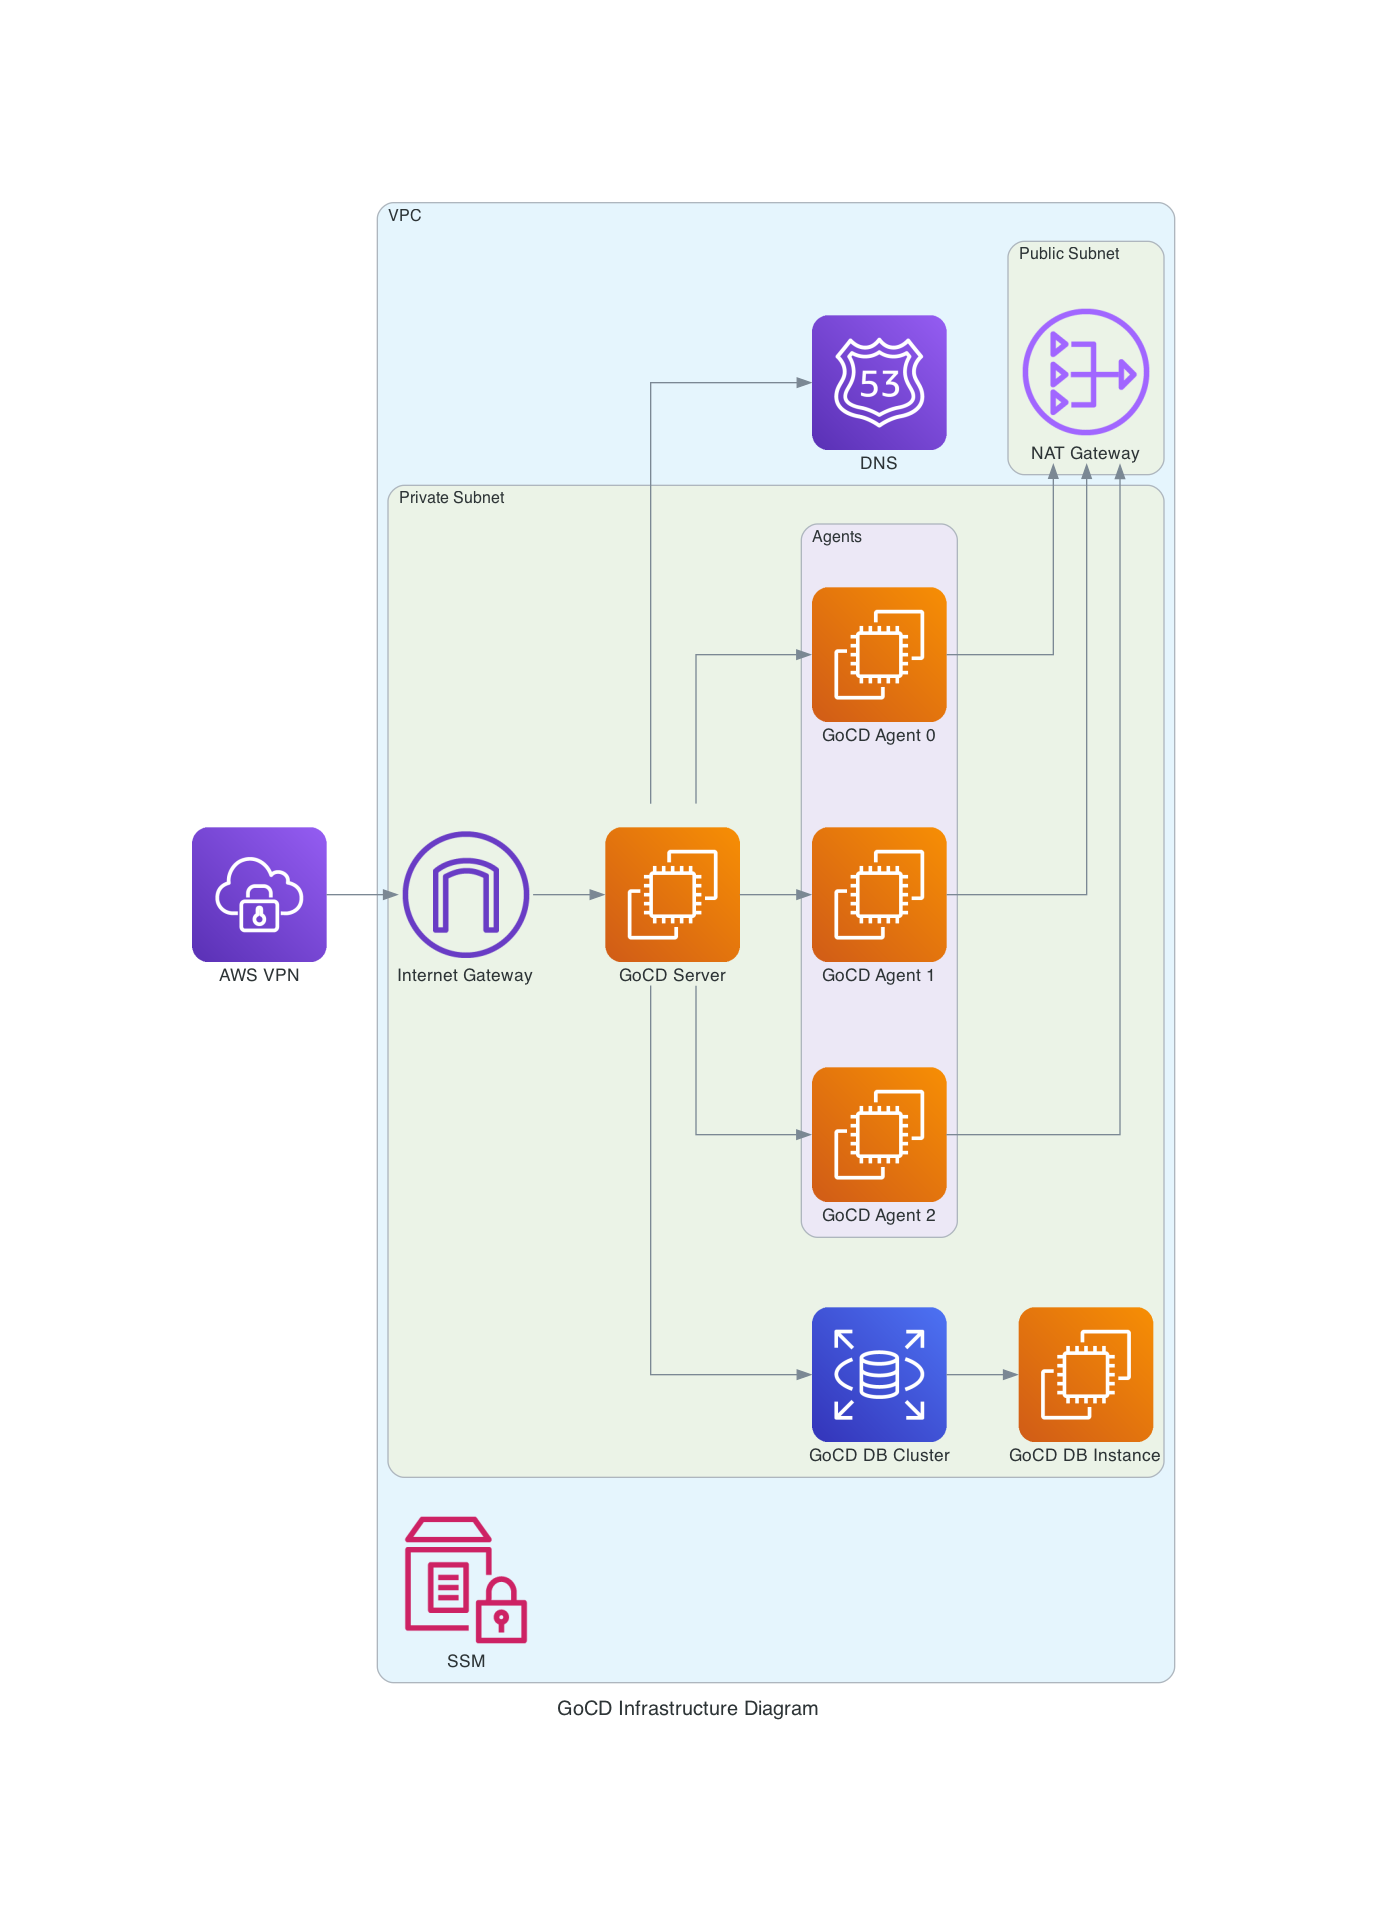
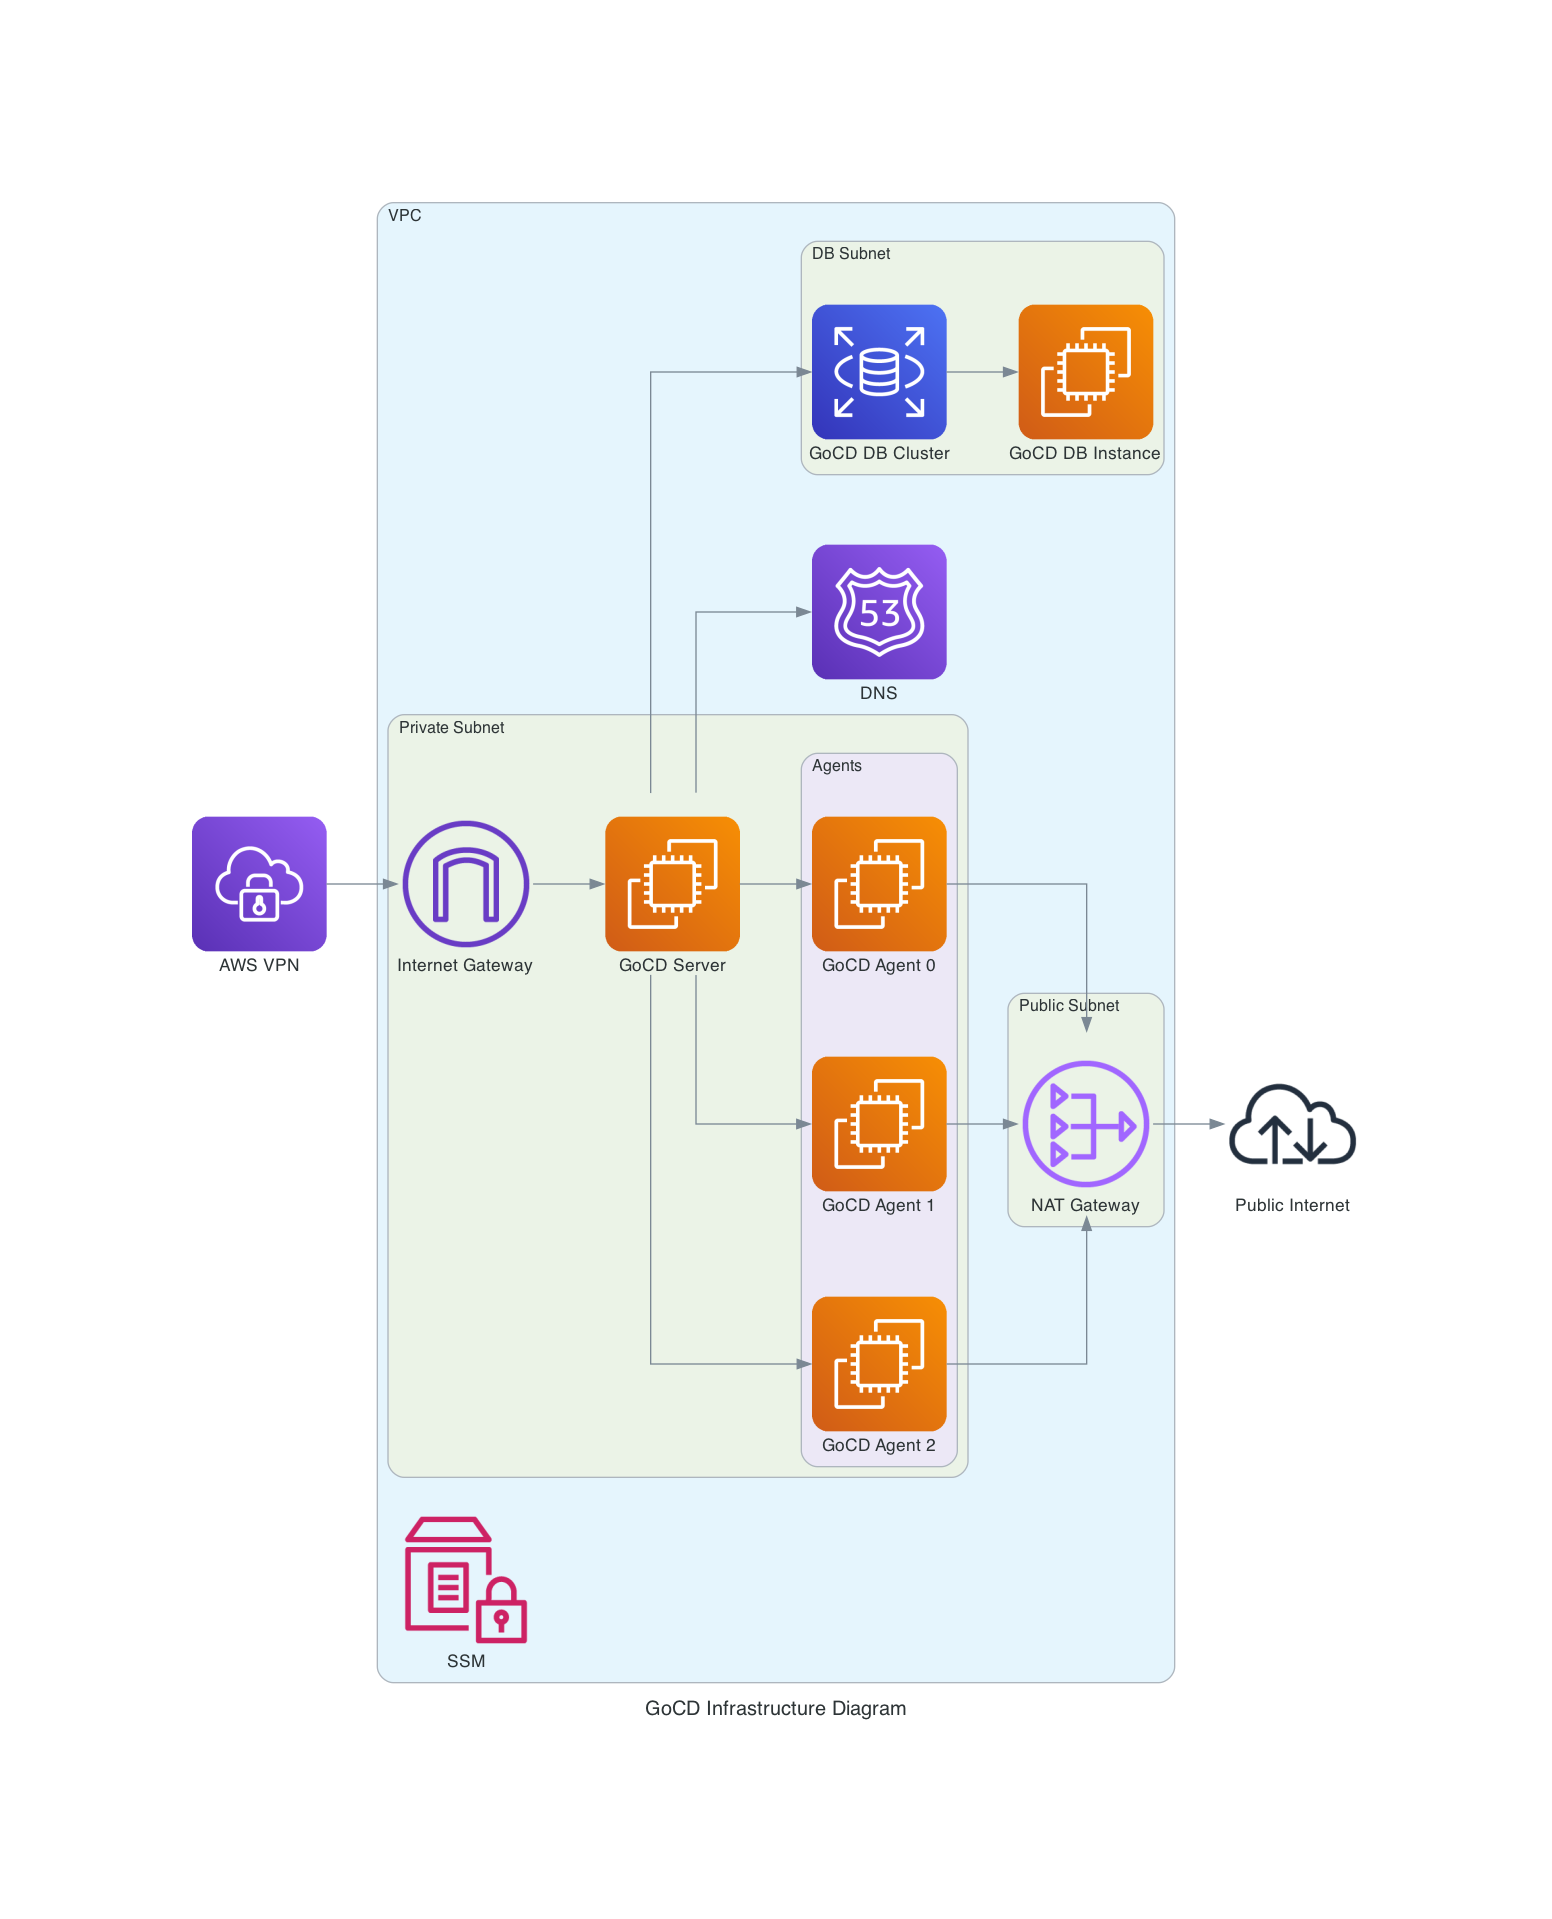
Updated infra diagram to correct subnets

diff --git a/docs/infra-diagram.py b/docs/infra-diagram.py
@@ -1,22 +1,26 @@
 from diagrams import Cluster, Diagram
 from diagrams.aws.compute import EC2
 from diagrams.aws.database import RDS
+from diagrams.aws.general import InternetAlt2
 from diagrams.aws.management import ParameterStore
 from diagrams.aws.network import ELB, ClientVpn, VPC, NATGateway, InternetGateway, Route53
 
 with Diagram("GoCD Infrastructure Diagram", show=False):
     vpn = ClientVpn("AWS VPN")
+    internet = InternetAlt2("Public Internet")
 
     with Cluster("VPC"):
 
         ssm = ParameterStore("SSM")
         r53 = Route53("DNS")
 
+        with Cluster("DB Subnet"):
+            gocd_db_volume = RDS("GoCD DB Cluster")
+            gocd_db_instance = EC2("GoCD DB Instance")
+
         with Cluster("Private Subnet"):
             igw = InternetGateway("Internet Gateway")
             gocd_server = EC2("GoCD Server")
-            gocd_db_volume = RDS("GoCD DB Cluster")
-            gocd_db_instance = EC2("GoCD DB Instance")
 
             with Cluster("Agents"):
                 gocd_agents = [EC2("GoCD Agent 0"), EC2("GoCD Agent 1"), EC2("GoCD Agent 2")]
@@ -30,3 +34,4 @@ with Diagram("GoCD Infrastructure Diagram", show=False):
     gocd_server >> gocd_db_volume >> gocd_db_instance
     gocd_agents >> ngw
     gocd_server >> r53
+    ngw >> internet
